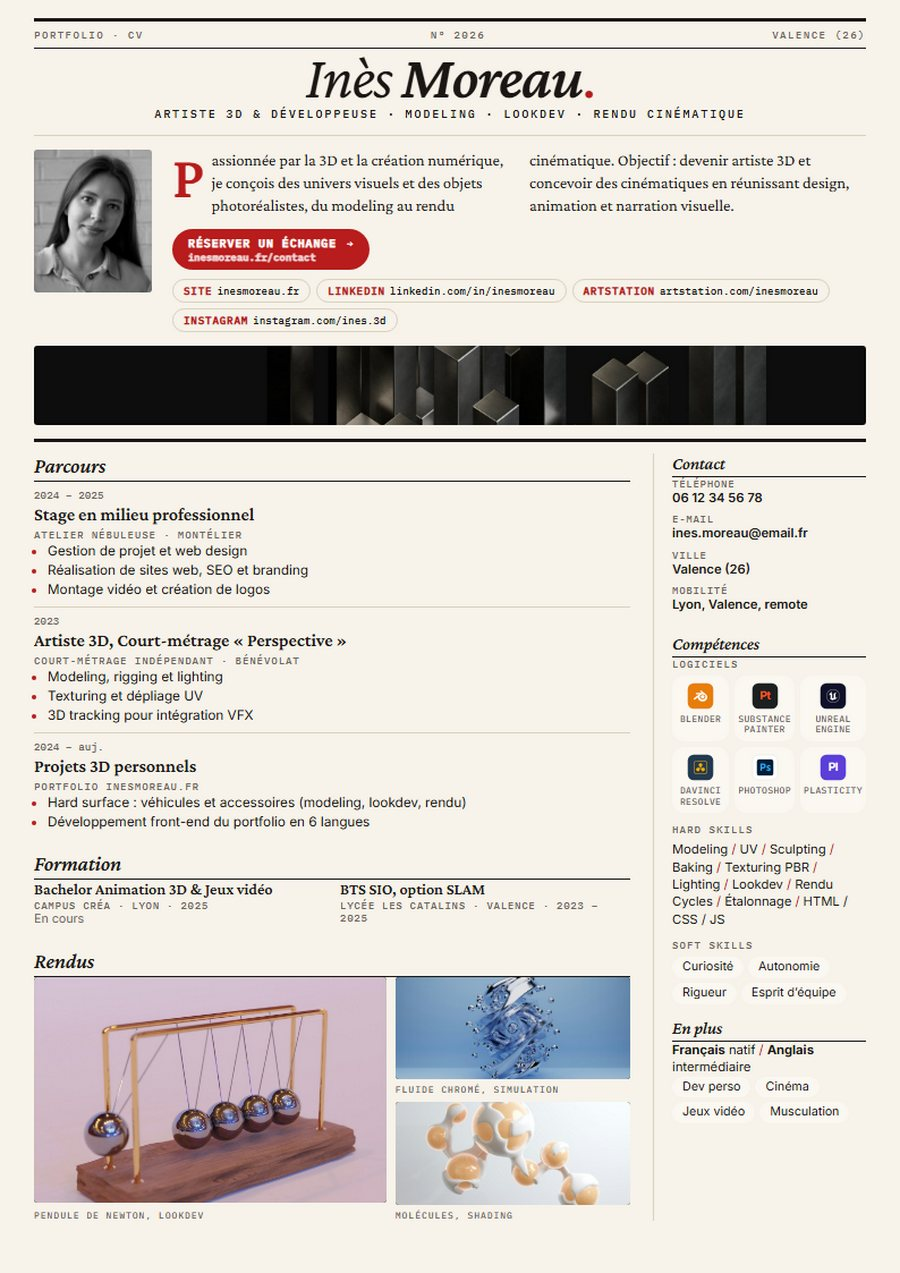
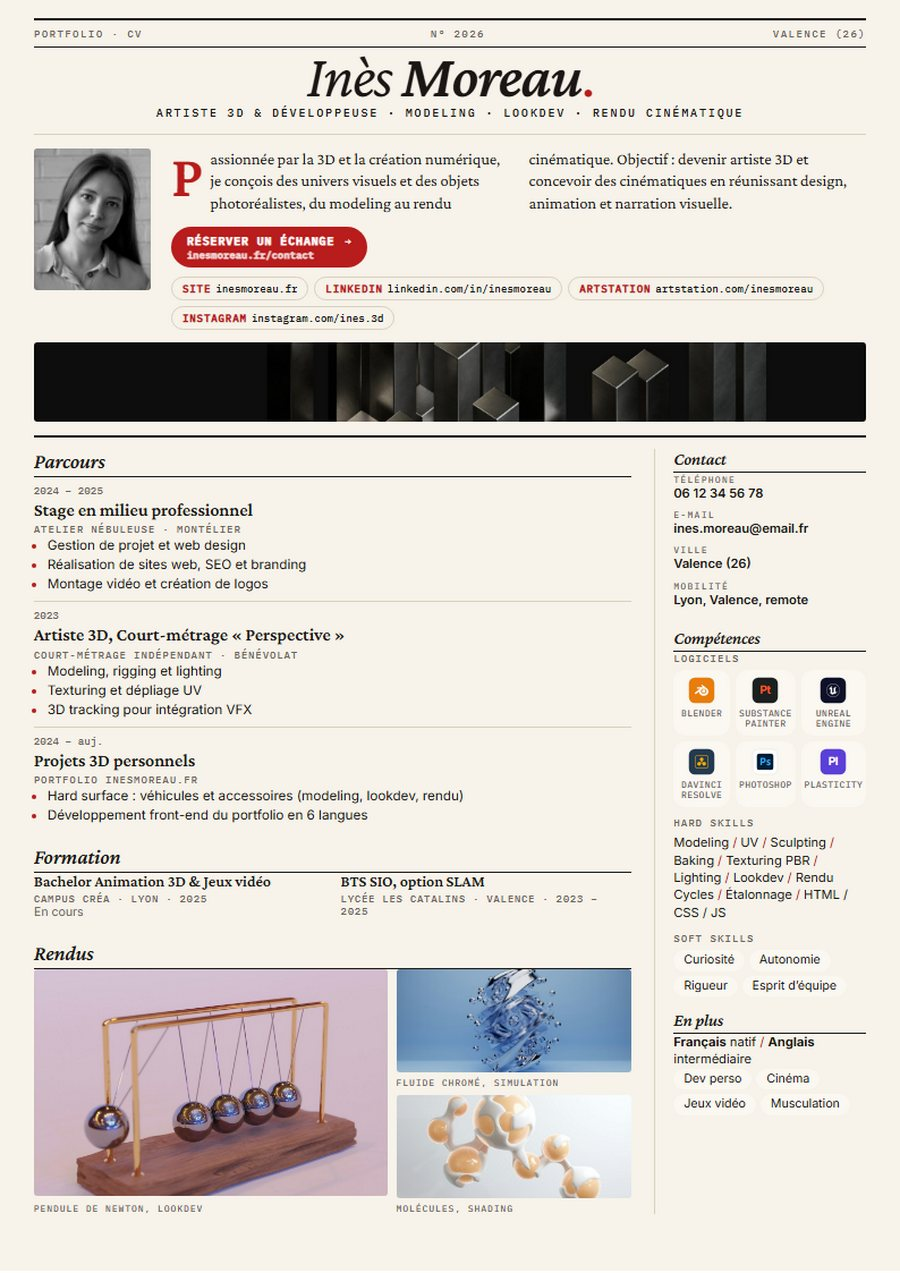
Version 1.9.1 : un CV tient toujours sur une seule page, bascule toile/formulaire corrigée
- Ajustement automatique à une page pour tous les modèles (aperçu, toile, PDF)
- Aperçu de l'éditeur recalculé au retour de la toile (il se réduisait dans un coin)
- Décors ancrés à la largeur réelle de la page, aperçus régénérés

diff --git a/src/renderer/src/templates/CvReplica.tsx b/src/renderer/src/templates/CvReplica.tsx
@@ -1,4 +1,4 @@
-import { useContext, useLayoutEffect, useRef, type CSSProperties, type ReactNode } from 'react'
+import { useContext, type CSSProperties, type ReactNode } from 'react'
 import { BookOpen, Camera, Coffee, Dumbbell, Film, Gamepad2, Globe, Mail, MapPin, Music, Palette, Phone, Plane, Sparkle, User, BarChart3, GraduationCap, Wrench, Send } from 'lucide-react'
 import { sectionTitles, stripProtocol, visibleSections } from '../../../shared/format'
 import type { Resume, SectionKey } from '../../../shared/types'
@@ -196,48 +196,7 @@ const LABELS = {
 
 // ---------- Rendu ----------
 
-/** Hauteur d'une page A4 à l'écran (794 × 1123 px). */
-const PAGE_H = 1123
-
-/**
- * Arrondit la hauteur du CV à un nombre entier de pages : colonnes, fonds et décors
- * descendent ainsi jusqu'en bas de la dernière page au lieu de s'arrêter au milieu.
- */
-function useWholePages() {
-  const ref = useRef<HTMLElement>(null)
-  useLayoutEffect(() => {
-    const el = ref.current
-    if (!el) return
-    const fit = () => {
-      // Hauteur naturelle : on revient un instant à une page (sinon les colonnes
-      // étirées par flex ou grid gonfleraient la mesure à chaque passage).
-      el.style.setProperty('--rp-pages', '1')
-      const natural = el.offsetHeight
-      // Chaque page en plus reprend les marges intérieures des colonnes (≈ 120 px à l'impression).
-      // Tolérance de quelques pixels : un contenu d'une page tout juste ne crée pas de page blanche.
-      let pages = 1
-      while (natural + (pages - 1) * 120 > pages * PAGE_H + 2 && pages < 12) pages++
-      // Nombre de pages en variable CSS : la feuille de style en déduit la hauteur à l'écran
-      // et à l'impression (où les marges répétées des colonnes étirées sont déjà ajoutées).
-      el.style.setProperty('--rp-pages', String(pages))
-    }
-    // Export PDF : le fond du modèle (couleur de page, bande de la colonne latérale) couvre aussi
-    // la page entière, derrière le CV. Là où le contenu s'arrête, colonnes et fonds continuent
-    // jusqu'en bas de chaque page, quelle que soit la pagination.
-    if (el.closest('.print-root')) {
-      const bg = getComputedStyle(el).getPropertyValue('--rp-page-bg').trim()
-      if (bg) document.documentElement.style.setProperty('background', bg, 'important')
-    }
-    fit()
-    const ro = new ResizeObserver(fit)
-    for (const c of el.children) ro.observe(c)
-    return () => ro.disconnect()
-  })
-  return ref
-}
-
 export function CvReplica({ resume: r }: { resume: Resume }) {
-  const pageRef = useWholePages()
   const ph = usePlaceholders()
   const editable = useContext(EditableContext)
   const E = (edit: string, label: string) => (editable ? { 'data-edit': edit, 'data-edit-label': label } : {})
@@ -571,6 +530,9 @@ export function CvReplica({ resume: r }: { resume: Resume }) {
           <svg className="rp-petal-bg" viewBox="0 0 794 1123" preserveAspectRatio="none" aria-hidden>
             <path className="soft" d="M0 58 C 92 44, 210 70, 296 24 C 330 8, 362 0, 420 0 L 420 0 C 404 92, 336 150, 330 252 C 324 350, 352 468, 302 560 C 252 650, 120 662, 40 612 C 18 598, 0 584, 0 574 Z" />
             <path className="deep" d="M410 0 C 366 74, 342 172, 392 252 C 452 348, 616 392, 794 330 L 794 0 Z" />
+          </svg>
+          {/* Forme du bas : ancrée au bas de la page, même quand le CV est réduit pour tenir sur une page. */}
+          <svg className="rp-petal-bg bottom" viewBox="0 830 794 293" preserveAspectRatio="none" aria-hidden>
             <path className="soft" d="M0 900 C 42 858, 124 830, 204 838 C 282 846, 298 924, 298 1000 C 298 1058, 304 1098, 310 1123 L 0 1123 Z" />
           </svg>
           <aside className="rp-side">
@@ -1928,7 +1890,7 @@ export function CvReplica({ resume: r }: { resume: Resume }) {
   }
 
   return (
-    <article ref={pageRef} className={`cv cv-visual rp rp-${r.templateId}`} style={style} lang={r.lang}>
+    <article className={`cv cv-visual rp rp-${r.templateId}`} style={style} lang={r.lang}>
       {body}
     </article>
   )

diff --git a/src/renderer/src/templates/onePage.ts b/src/renderer/src/templates/onePage.ts
@@ -1,0 +1,82 @@
+import { useLayoutEffect, useRef } from 'react'
+
+/** Page A4 à l'écran (794 × 1123 px). */
+export const PAGE_W = 794
+export const PAGE_H = 1123
+/** Marges haute et basse des pages ATS à l'impression (14 mm chacune). */
+const ATS_PRINT_MARGINS = 106
+/** Réduction maximale : en dessous, le texte ne serait plus lisible. */
+const MIN_ZOOM = 0.5
+/** Marge de sécurité sous le bas de la page : le rendu imprimé diffère de quelques pixels de l'écran. */
+const SLACK = 30
+
+/** Facteur de réduction appliqué à un CV (1 s'il tient déjà sur une page). */
+export const cvZoom = (cv: Element | null) => parseFloat((cv as HTMLElement | null)?.style.zoom || '1') || 1
+
+/**
+ * Tous les modèles tiennent sur une seule page : si le contenu dépasse, le CV entier est réduit
+ * (polices, espacements et formes ensemble, proportions conservées) juste assez pour tenir,
+ * et sa largeur est compensée pour garder exactement la largeur A4. Aperçu, toile et PDF.
+ * Le ref se pose sur un conteneur transparent (display: contents) autour de l'élément .cv.
+ */
+export function useOnePage() {
+  const ref = useRef<HTMLDivElement>(null)
+  useLayoutEffect(() => {
+    const wrap = ref.current
+    const el = wrap?.firstElementChild as HTMLElement | null
+    if (!wrap || !el) return
+    const host = wrap.parentElement
+    const visual = el.classList.contains('cv-visual')
+    const print = !!el.closest('.print-root')
+    // Hauteur utile : page entière pour les modèles visuels, moins les marges imprimées pour l'ATS.
+    const limit = PAGE_H - (print && !visual ? ATS_PRINT_MARGINS + SLACK : 0) - SLACK
+    // Hauteur visible ramenée à l'échelle de la page (les miniatures sont réduites par transform).
+    const scale = () => (host && host.offsetWidth ? host.getBoundingClientRect().width / host.offsetWidth || 1 : 1)
+    const height = () => el.getBoundingClientRect().height / scale()
+    const apply = (z: number, measuring: boolean) => {
+      el.style.zoom = z === 1 ? '' : String(z)
+      el.style.width = z === 1 ? '' : `${PAGE_W / z}px`
+      el.style.minHeight = measuring ? '0px' : z === 1 || (print && !visual) ? '' : `${(PAGE_H - 2) / z}px`
+    }
+    const fit = () => {
+      apply(1, true)
+      let z = 1
+      if (height() > limit) {
+        // Recherche du plus grand facteur qui fait tenir le contenu sur la page.
+        let lo = MIN_ZOOM
+        let hi = 1
+        for (let i = 0; i < 9; i++) {
+          const mid = (lo + hi) / 2
+          apply(mid, true)
+          if (height() <= limit) lo = mid
+          else hi = mid
+        }
+        z = Math.floor(lo * 1000) / 1000
+      }
+      apply(z, false)
+      el.dataset.fit = String(z)
+    }
+    // Export PDF des modèles qui le demandent : leur fond couvre aussi la page entière, derrière le CV.
+    if (print) {
+      const bg = getComputedStyle(el).getPropertyValue('--rp-page-bg').trim()
+      if (bg) document.documentElement.style.setProperty('background', bg, 'important')
+    }
+    fit()
+    // Polices chargées : nouvelle mesure tout de suite (avant la génération du PDF, qui attend aussi les polices).
+    let alive = true
+    document.fonts?.ready.then(() => alive && fit())
+    // Recalcul à l'image suivante : on ne modifie pas la page pendant que l'observateur la mesure.
+    let frame = 0
+    const ro = new ResizeObserver(() => {
+      cancelAnimationFrame(frame)
+      frame = requestAnimationFrame(fit)
+    })
+    for (const c of el.children) ro.observe(c)
+    return () => {
+      alive = false
+      cancelAnimationFrame(frame)
+      ro.disconnect()
+    }
+  })
+  return ref
+}

diff --git a/src/renderer/src/pages/Editor.tsx b/src/renderer/src/pages/Editor.tsx
@@ -5,6 +5,7 @@ import { resumeToText } from '../../../shared/format'
 import type { Resume } from '../../../shared/types'
 import { AtsPanel } from '../components/AtsPanel'
 import { CanvasEditor } from '../components/CanvasEditor'
+import { cvZoom } from '../templates/onePage'
 import { ColorPicker } from '../components/ColorPicker'
 import { DesignForm } from '../components/DesignForm'
 import { EducationForm, ExperienceForm, ExtrasForm, IdentityForm, LayoutForm, SkillsForm, SummaryForm } from '../components/EditorForms'
@@ -86,13 +87,19 @@ export default function Editor({ id }: { id: string }) {
   const report = useMemo(() => (deferred ? analyze(deferred, offer) : null), [deferred, offer])
 
   // Zoom « ajusté » : la page A4 tient dans la largeur disponible.
+  // La zone d'aperçu est recréée au retour de la toile : on l'observe à nouveau (dépendance « mode »),
+  // et une mesure faite pendant qu'elle est masquée (largeur nulle) est ignorée.
   useEffect(() => {
     const el = scrollRef.current
     if (!el) return
-    const ro = new ResizeObserver(([e]) => setFitScale(Math.min(1.1, (e.contentRect.width - 48) / 794)))
+    const fit = (w: number) => {
+      if (w > 120) setFitScale(Math.min(1.1, (w - 48) / 794))
+    }
+    const ro = new ResizeObserver(([e]) => fit(e.contentRect.width))
     ro.observe(el)
+    fit(el.clientWidth)
     return () => ro.disconnect()
-  }, [showAts])
+  }, [showAts, mode])
 
   const visualTpl = resume ? isVisual(resume.templateId) : false
   const PAGE_PX = visualTpl ? PAGE_VISUAL_PX : PAGE_ATS_PX
@@ -106,6 +113,8 @@ export default function Editor({ id }: { id: string }) {
     const measure = () => {
       const el = paper.querySelector('.cv') as HTMLElement | null
       if (!el) return
+      // Réduit pour tenir sur une page : il en fait une, par construction.
+      if (cvZoom(el) < 1) return setPages(1)
       let contentH: number
       if (visualTpl) contentH = el.scrollHeight
       else {
@@ -120,7 +129,7 @@ export default function Editor({ id }: { id: string }) {
     if (cv) ro.observe(cv)
     measure()
     return () => ro.disconnect()
-  }, [visualTpl, PAGE_PX, resume?.templateId])
+  }, [visualTpl, PAGE_PX, resume?.templateId, mode])
 
   const fitOrZoom = zoom === 'fit' ? fitScale : zoom
   const edit = usePreviewEditing({

diff --git a/src/renderer/src/styles/cv-replica.css b/src/renderer/src/styles/cv-replica.css
@@ -3614,10 +3614,6 @@
   padding-top: 102px;
 }
 
-/* Hauteur en pages entières (variable --rp-pages posée par le composant). */
-.cv-visual.rp {
-  min-height: calc(var(--rp-pages, 1) * 1123px - 2px);
-}
 @media print {
   .cv-visual.rp {
     min-height: 1121px;
@@ -3671,4 +3667,42 @@
 .rp .rp-grid-row,
 .rp .rp-grid-top {
   break-inside: avoid;
+}
+
+/* Une seule page : les décors suivent la hauteur réelle de la page (même réduite). */
+.rp-petale .rp-side {
+  height: auto;
+  bottom: 0;
+}
+.rp-petal-bg.bottom {
+  top: auto;
+  bottom: 0;
+  height: 293px;
+}
+.rp-petal-coords {
+  top: auto;
+  bottom: 70px;
+}
+.rp-ang-bg {
+  height: 100%;
+}
+/* Largeur A4 fixe (la fenêtre d'export PDF est plus large que la page) : la mise en page
+   mesurée pour l'ajustement à une page est exactement celle qui sera imprimée. */
+.cv-visual.rp {
+  width: 794px;
+}
+/* Décors ancrés à la largeur réelle de la page (elle s'élargit quand le CV est réduit pour tenir sur une page). */
+.rp-petal-bg,
+.rp-petal-bg.bottom,
+.rp-ang-bg {
+  width: 100%;
+}
+.rp-dune-arch,
+.rp-dune-photo {
+  left: auto;
+  right: 46px;
+}
+.rp-scr-photo {
+  left: auto;
+  right: 52px;
 }

diff --git a/src/renderer/src/templates/Cv.tsx b/src/renderer/src/templates/Cv.tsx
@@ -8,6 +8,7 @@ import { usesDesignEngine } from './designCatalog'
 import { T } from './Editable'
 import { CvVisual } from './CvVisual'
 import { CvReplica, isReplica } from './CvReplica'
+import { useOnePage } from './onePage'
 import { EditableContext, usePlaceholders } from './previewContext'
 import { FONTS, isVisual } from './registry'
 
@@ -17,6 +18,16 @@ import { FONTS, isVisual } from './registry'
  * En mode « toile », chaque texte s'édite sur place ; le rendu exporté reste identique.
  */
 export function Cv({ resume }: { resume: Resume }) {
+  // Tous les modèles tiennent sur une seule page (réduction automatique si besoin).
+  const fit = useOnePage()
+  return (
+    <div className="cv-fit" ref={fit}>
+      <CvLayout resume={resume} />
+    </div>
+  )
+}
+
+function CvLayout({ resume }: { resume: Resume }) {
   // Les modèles visuels ont leur propre mise en page (bandeau, colonnes, images).
   // « Sur mesure » et les modèles du studio : moteur de design paramétrable.
   if (usesDesignEngine(resume.templateId)) return <CvCustom resume={resume} />

diff --git a/src/renderer/src/components/CanvasEditor.tsx b/src/renderer/src/components/CanvasEditor.tsx
@@ -32,6 +32,7 @@ import { analyze } from '../lib/ats'
 import { actions } from '../lib/actions'
 import { uid } from '../lib/sample'
 import { useStore } from '../store'
+import { cvZoom } from '../templates/onePage'
 import { CanvasContext, type CanvasApi } from '../templates/canvasContext'
 import { Cv } from '../templates/Cv'
 import { FONTS, STUDIO_TEMPLATES, TEMPLATES, isVisual } from '../templates/registry'
@@ -242,7 +243,8 @@ export function CanvasEditor({ resume, onExit }: { resume: Resume; onExit: () =>
   useEffect(() => {
     const cv = innerRef.current?.querySelector('.cv')
     if (!cv) return
-    const ro = new ResizeObserver(() => setPaperH((cv as HTMLElement).offsetHeight))
+    // Hauteur visible : un CV réduit pour tenir sur une page compte pour sa taille réduite.
+    const ro = new ResizeObserver(() => setPaperH(Math.round((cv as HTMLElement).offsetHeight * cvZoom(cv))))
     ro.observe(cv)
     return () => ro.disconnect()
   }, [resume.templateId])

diff --git a/src/renderer/src/styles/cv.css b/src/renderer/src/styles/cv.css
@@ -350,6 +350,20 @@
 }
 
 /* ---------- Mise en page écran / impression ---------- */
+/* Conteneur de l'ajustement à une page : sans boîte, il ne change pas la mise en page. */
+.cv-fit {
+  display: contents;
+}
+.cv-fit > .cv {
+  box-sizing: border-box;
+}
+/* Fenêtre d'export (plus large que la page) : le CV est mis en page à la largeur A4 exacte. */
+.print-root .cv {
+  width: 794px;
+  /* Les marges des sections restent dans le CV : la hauteur mesurée est celle qui s'imprime. */
+  display: flow-root;
+}
+
 .paper .cv,
 .paper-scale .cv {
   padding: 53px var(--cv-mx, 60px);

diff --git a/src/renderer/src/styles/app.css b/src/renderer/src/styles/app.css
@@ -2900,7 +2900,7 @@ ul.clean li {
 .cv-ghost {
   position: relative;
 }
-.cv-ghost > .cv {
+.cv-ghost .cv {
   opacity: 0.32;
   filter: grayscale(0.3);
 }
